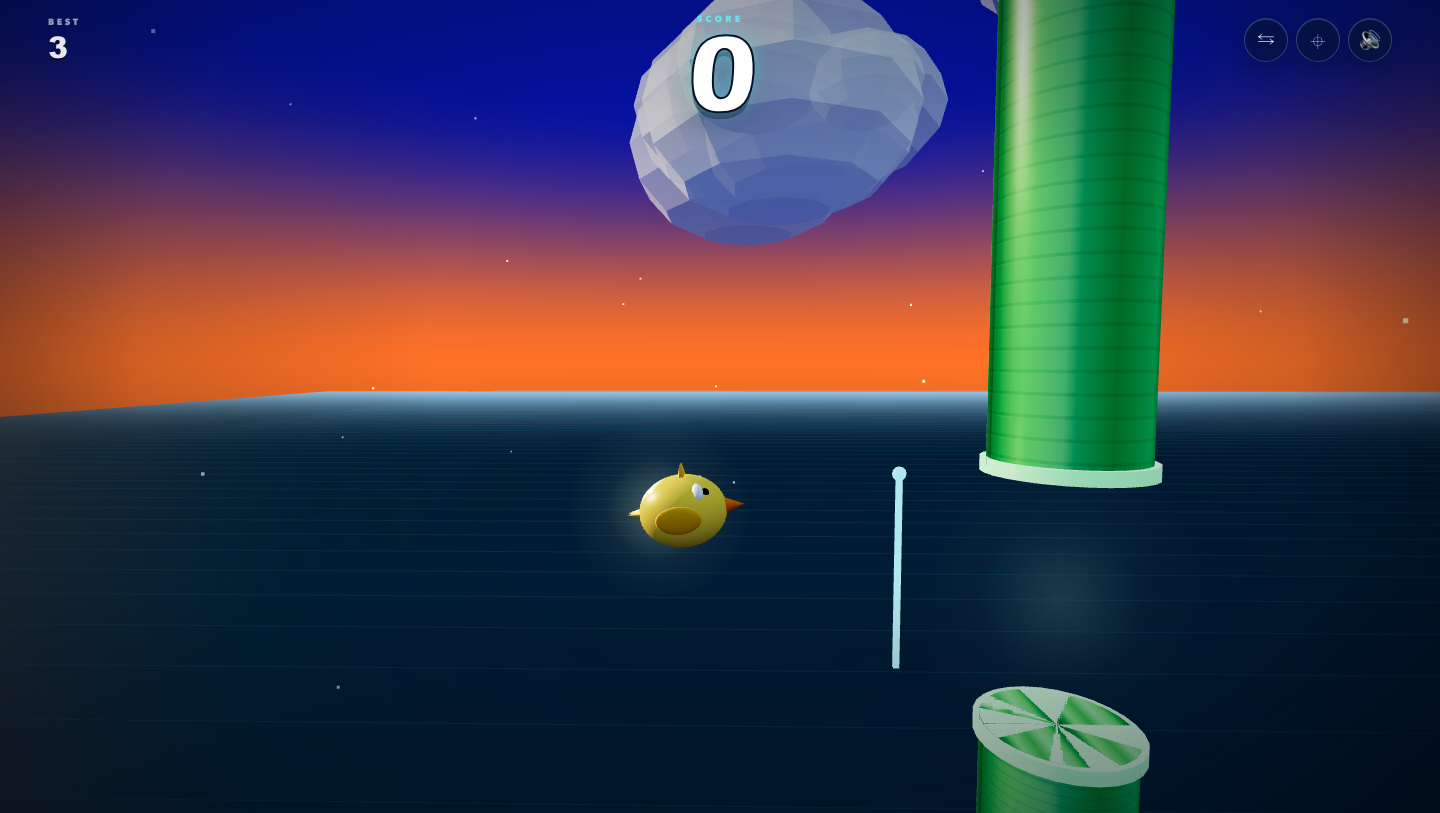
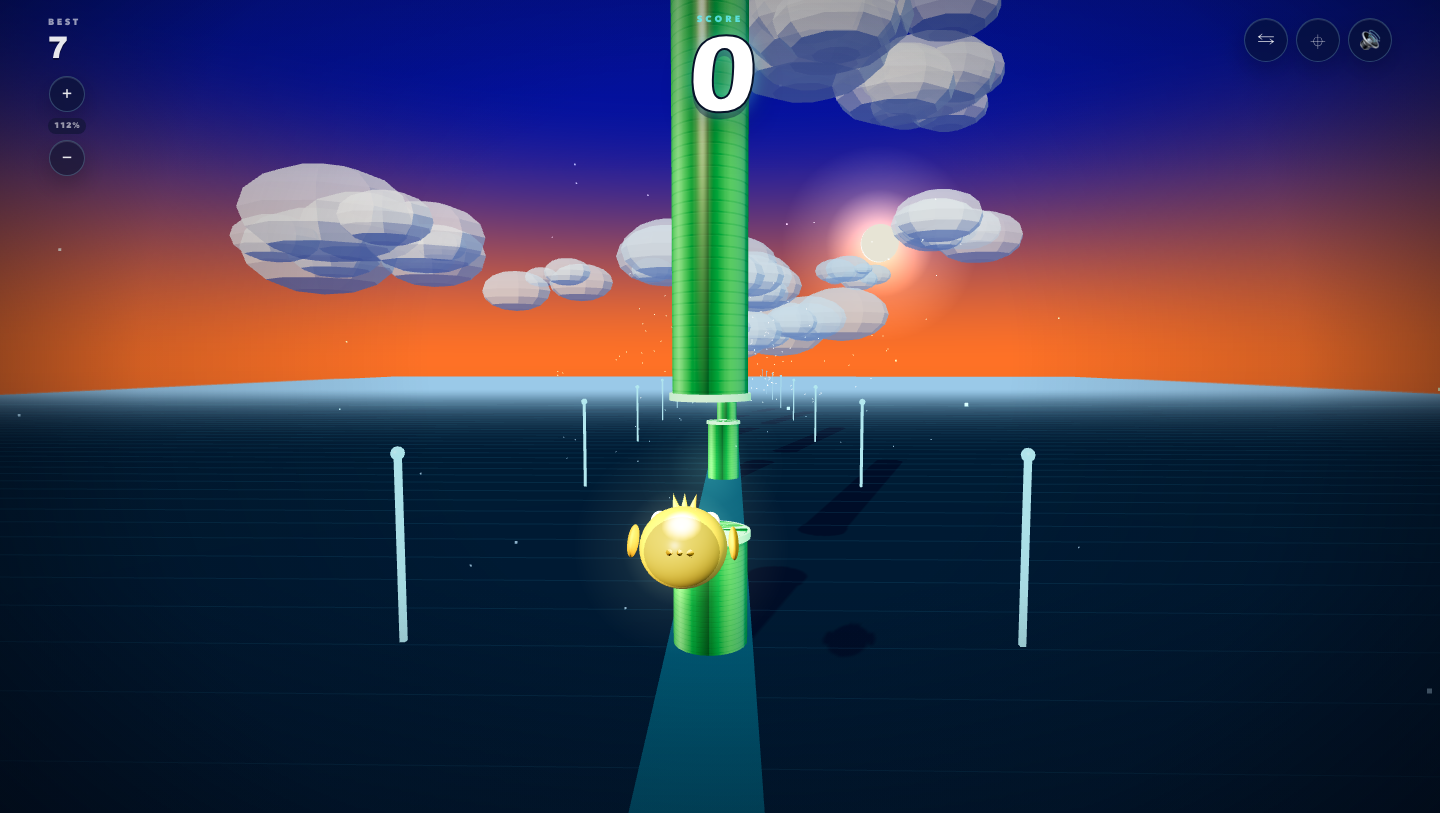
Add camera zoom controls

diff --git a/index.html b/index.html
@@ -215,6 +215,64 @@
       transform: translateX(-50%) translateY(8px);
     }
 
+    .zoom-controls {
+      position: absolute;
+      top: calc(max(18px, env(safe-area-inset-top)) + 58px);
+      left: clamp(18px, 4vw, 48px);
+      z-index: 12;
+      display: flex;
+      flex-direction: column;
+      align-items: center;
+      gap: 6px;
+      pointer-events: none;
+    }
+
+    .zoom-controls button {
+      pointer-events: auto;
+      width: 36px;
+      height: 36px;
+      border: 1px solid rgba(159, 235, 255, 0.24);
+      border-radius: 50%;
+      background: rgba(6, 18, 40, 0.52);
+      color: rgba(255, 255, 255, 0.9);
+      font-size: 18px;
+      line-height: 1;
+      cursor: pointer;
+      backdrop-filter: blur(12px);
+      -webkit-backdrop-filter: blur(12px);
+      box-shadow: inset 0 1px 0 rgba(255, 255, 255, 0.12), 0 8px 24px rgba(0, 0, 0, 0.24);
+      transition: transform 0.15s ease, background 0.15s ease;
+    }
+
+    .zoom-controls button:hover {
+      transform: scale(1.06);
+      background: rgba(14, 38, 72, 0.72);
+    }
+
+    .zoom-controls button:active {
+      transform: scale(0.96);
+    }
+
+    .zoom-controls button:focus-visible {
+      outline: 2px solid var(--cyan);
+      outline-offset: 3px;
+    }
+
+    #zoomLevel {
+      min-width: 38px;
+      padding: 4px 0;
+      border-radius: 999px;
+      background: rgba(6, 18, 40, 0.46);
+      color: rgba(255, 255, 255, 0.56);
+      font-size: 8px;
+      font-weight: 800;
+      letter-spacing: 0.06em;
+      line-height: 1;
+      text-align: center;
+      backdrop-filter: blur(10px);
+      -webkit-backdrop-filter: blur(10px);
+    }
+
     .overlay {
       position: absolute;
       inset: 0;
@@ -550,6 +608,17 @@
         font-size: 15px;
       }
 
+      .zoom-controls {
+        top: calc(max(14px, env(safe-area-inset-top)) + 52px);
+        left: 18px;
+      }
+
+      .zoom-controls button {
+        width: 32px;
+        height: 32px;
+        font-size: 16px;
+      }
+
       .card {
         border-radius: 24px;
         padding: 28px 22px;
@@ -636,12 +705,18 @@
       </div>
       <div class="hud-block right">
         <button id="flipView" type="button" aria-label="Flip side view" title="Flip side view (F)">⇆</button>
-        <button id="recenter" type="button" aria-label="Recenter view" title="Recenter view (R)">⌖</button>
+        <button id="recenter" type="button" aria-label="Reset view" title="Reset view (R)">⌖</button>
         <button id="sound" type="button" aria-label="Toggle sound" title="Toggle sound">🔊</button>
       </div>
     </header>
 
-    <div id="lookHint" class="look-hint" aria-hidden="true">Drag / arrows to orbit · F flips</div>
+    <div id="lookHint" class="look-hint" aria-hidden="true">Drag orbit · scroll / +− zoom · F flips</div>
+
+    <div class="zoom-controls" aria-label="Camera zoom">
+      <button id="zoomIn" type="button" aria-label="Zoom in" title="Zoom in (+)">+</button>
+      <span id="zoomLevel" aria-live="polite">100%</span>
+      <button id="zoomOut" type="button" aria-label="Zoom out" title="Zoom out (−)">−</button>
+    </div>
 
     <section id="menu" class="overlay" aria-label="Start screen">
       <div class="card menu-card">
@@ -649,7 +724,7 @@
         <h1>FLAPPY<span>3D</span></h1>
         <p class="tagline">Thread the pipes. Chase the horizon. One tiny flap at a time.</p>
         <button id="startBtn" class="primary" type="button">Press Space / Tap to Fly</button>
-        <p class="hint">Space or tap to flap · drag to orbit</p>
+        <p class="hint">Space/tap flap · drag orbit · scroll zoom</p>
         <p class="credits">Built with <strong>OpenCode</strong> × <strong>DeepSeek V4.1 Flash</strong></p>
       </div>
     </section>
@@ -670,7 +745,7 @@
         </div>
         <div id="newBest" class="badge hidden">New Best!</div>
         <button id="restartBtn" class="primary" type="button">Tap / Press Space to Restart</button>
-        <p class="hint">Drag to orbit · R to recenter</p>
+        <p class="hint">Drag orbit · R resets view</p>
       </div>
     </section>
 
@@ -716,6 +791,9 @@
     const recenterBtn = document.getElementById("recenter");
     const flipViewBtn = document.getElementById("flipView");
     const lookHint = document.getElementById("lookHint");
+    const zoomInBtn = document.getElementById("zoomIn");
+    const zoomOutBtn = document.getElementById("zoomOut");
+    const zoomLevel = document.getElementById("zoomLevel");
     const startBtn = document.getElementById("startBtn");
     const restartBtn = document.getElementById("restartBtn");
 
@@ -764,12 +842,17 @@
     const LOOK_DRAG_PITCH = 0.003;
     const LOOK_KEY_YAW = 1.7;
     const LOOK_KEY_PITCH = 1.15;
+    const ZOOM_MIN = 0.55;
+    const ZOOM_MAX = 1.8;
+    const ZOOM_STEP = 0.12;
 
     const look = {
       yaw: 0,
       pitch: 0,
       targetYaw: 0,
       targetPitch: 0,
+      zoom: 1,
+      targetZoom: 1,
       dragging: false,
       pointerId: null,
       startX: 0,
@@ -1651,9 +1734,25 @@
       lookHint.classList.add("hidden");
     }
 
+    function updateZoomLabel() {
+      zoomLevel.textContent = `${Math.round(look.targetZoom * 100)}%`;
+    }
+
+    function zoomBy(amount) {
+      look.targetZoom = THREE.MathUtils.clamp(
+        look.targetZoom + amount,
+        ZOOM_MIN,
+        ZOOM_MAX
+      );
+      updateZoomLabel();
+      dismissLookHint();
+    }
+
     function resetLook() {
       look.targetYaw = 0;
       look.targetPitch = 0;
+      look.targetZoom = 1;
+      updateZoomLabel();
       dismissLookHint();
     }
 
@@ -1859,24 +1958,27 @@
       updateLookFromKeys(delta);
       look.yaw = THREE.MathUtils.damp(look.yaw, look.targetYaw, 14, delta);
       look.pitch = THREE.MathUtils.damp(look.pitch, look.targetPitch, 14, delta);
+      look.zoom = THREE.MathUtils.damp(look.zoom, look.targetZoom, 11, delta);
 
       const shake = state.crashShake * 0.34;
       state.crashShake = Math.max(0, state.crashShake - delta * 1.7);
 
       // Orbit the camera around the bird. At yaw 0 this is the familiar
       // over-the-shoulder chase view; ±90° gives a side profile and 180°
-      // gives a front-on view.
+      // gives a front-on view. Zoom scales the whole camera rig.
+      const zoomScale = 1 / look.zoom;
       const orbitSin = Math.sin(look.yaw);
       const orbitCos = Math.cos(look.yaw);
-      const orbitX = 0.7 * orbitCos + 9.5 * orbitSin;
-      const orbitZ = -0.7 * orbitSin + 9.5 * orbitCos;
+      const orbitX = (0.7 * orbitCos + 9.5 * orbitSin) * zoomScale;
+      const orbitZ = (-0.7 * orbitSin + 9.5 * orbitCos) * zoomScale;
       const focusY = 0.9 + bird.position.y * 0.32;
 
       camera.position.x = orbitX + (Math.random() - 0.5) * shake;
-      camera.position.y = focusY + 2.45 + (Math.random() - 0.5) * shake;
+      camera.position.y =
+        focusY + 2.45 * zoomScale + (Math.random() - 0.5) * shake;
       camera.position.z = orbitZ + (Math.random() - 0.5) * shake * 0.45;
 
-      const lookDistance = 28;
+      const lookDistance = 28 * zoomScale;
       const lookPitchCos = Math.cos(look.pitch);
       const lookX = -Math.sin(look.yaw) * lookDistance * lookPitchCos;
       const lookY =
@@ -1919,6 +2021,18 @@
         if (event.code === "KeyF") {
           event.preventDefault();
           flipView();
+          return;
+        }
+
+        if (event.code === "Equal" || event.code === "NumpadAdd") {
+          event.preventDefault();
+          zoomBy(ZOOM_STEP);
+          return;
+        }
+
+        if (event.code === "Minus" || event.code === "NumpadSubtract") {
+          event.preventDefault();
+          zoomBy(-ZOOM_STEP);
           return;
         }
 
@@ -2073,6 +2187,22 @@
       { passive: false }
     );
 
+    window.addEventListener(
+      "wheel",
+      (event) => {
+        if (event.target.closest("button")) {
+          return;
+        }
+        event.preventDefault();
+        const amount = Math.min(
+          0.18,
+          Math.max(0.04, Math.abs(event.deltaY) * 0.0015)
+        );
+        zoomBy(event.deltaY < 0 ? amount : -amount);
+      },
+      { passive: false }
+    );
+
     startBtn.addEventListener("click", (event) => {
       event.stopPropagation();
       startGame();
@@ -2098,6 +2228,16 @@
       flipView();
     });
 
+    zoomInBtn.addEventListener("click", (event) => {
+      event.stopPropagation();
+      zoomBy(ZOOM_STEP);
+    });
+
+    zoomOutBtn.addEventListener("click", (event) => {
+      event.stopPropagation();
+      zoomBy(-ZOOM_STEP);
+    });
+
     document.addEventListener("visibilitychange", () => {
       if (document.hidden) {
         lookKeys.clear();
@@ -2115,6 +2255,7 @@
 
     updateBestDisplay();
     updateSoundButton();
+    updateZoomLabel();
     window.setTimeout(dismissLookHint, 12000);
 
     /* ------------------------------------------------------------------ */
@@ -2148,6 +2289,7 @@
       crash,
       resetLook,
       flipView,
+      zoomBy,
       state,
       look,
       get score() {

diff --git a/README.md b/README.md
@@ -28,16 +28,18 @@ Three.js is loaded from jsDelivr, so the first load needs an internet connection
 | Drag | Orbit left / right and look up / down |
 | `ArrowLeft` / `ArrowRight` / `ArrowUp` / `ArrowDown` | Orbit left / right and look up / down |
 | `F` or the flip button | Flip between the left and right side views |
-| `R` or the crosshair button | Recenter behind the bird |
+| Mouse wheel / `+` / `−` / zoom buttons | Zoom in and out |
+| `R` or the crosshair button | Reset the view, including zoom |
 | Click / tap after a crash | Restart |
 | Sound button (top right) | Mute / unmute |
 
-On touch screens, drag with one finger to orbit the camera. Tap with a second finger to flap while holding the look drag. Drag all the way around to see the bird from the front.
+On touch screens, drag with one finger to orbit the camera and use the on-screen `+` / `−` buttons to zoom. Tap with a second finger to flap while holding the look drag. Drag all the way around to see the bird from the front.
 
 ## Features
 
 - Third-person chase camera behind a glowing, low-poly bird
-- Orbit camera: drag or use the arrow keys to swing around the bird, look up or down, and even see the front view; flip and recenter controls included
+- Orbit camera: drag or use the arrow keys to swing around the bird, look up or down, and even see the front view; flip and reset controls included
+- Zoomable view: mouse wheel, `+` / `−` keys, or on-screen zoom buttons
 - Endless 3D pipe corridor with textured green cylinders, bright caps, and a soft gap glow
 - Bounding-box collision against pipe geometry and the ground
 - Flap impulse and gravity physics with bird tilt, wing animation, and a gentle camera follow

diff --git a/STATE.md b/STATE.md
@@ -4,8 +4,8 @@
 | --- | --- |
 | Project | Flappy Bird 3D |
 | Started | 2026-10-31 17:03:58 UTC |
-| Completed | 2026-10-31 17:46:15 UTC |
-| Duration | **42m 17s** (2537.4 seconds) |
+| Completed | 2026-10-31 17:56:54 UTC |
+| Duration | **52m 56s** (3176.4 seconds) |
 | Harness | OpenCode 2.2.5 |
 | Model | DeepSeek V4.1 Flash (`opencode-go/deepseek-v4.1-flash`) |
 | Session | `ses_e6d14fab1ffe1Ks130scR0fjdU` |
@@ -16,13 +16,13 @@
 
 | Metric | Tokens |
 | --- | ---: |
-| Input | 62,247 |
-| Output | 58,500 |
-| Reasoning | 96,571 |
-| **Total (input + output + reasoning)** | **217,318** |
-| Cache read | 14,147,584 |
+| Input | 80,425 |
+| Output | 71,079 |
+| Reasoning | 112,752 |
+| **Total (input + output + reasoning)** | **264,256** |
+| Cache read | 21,752,960 |
 | Cache write | 0 |
-| Total including cache | 14,364,902 |
+| Total including cache | 22,017,216 |
 
 > Snapshot taken from the OpenCode session record when the project was packaged. Publishing commands and the final response are outside this snapshot.
 
